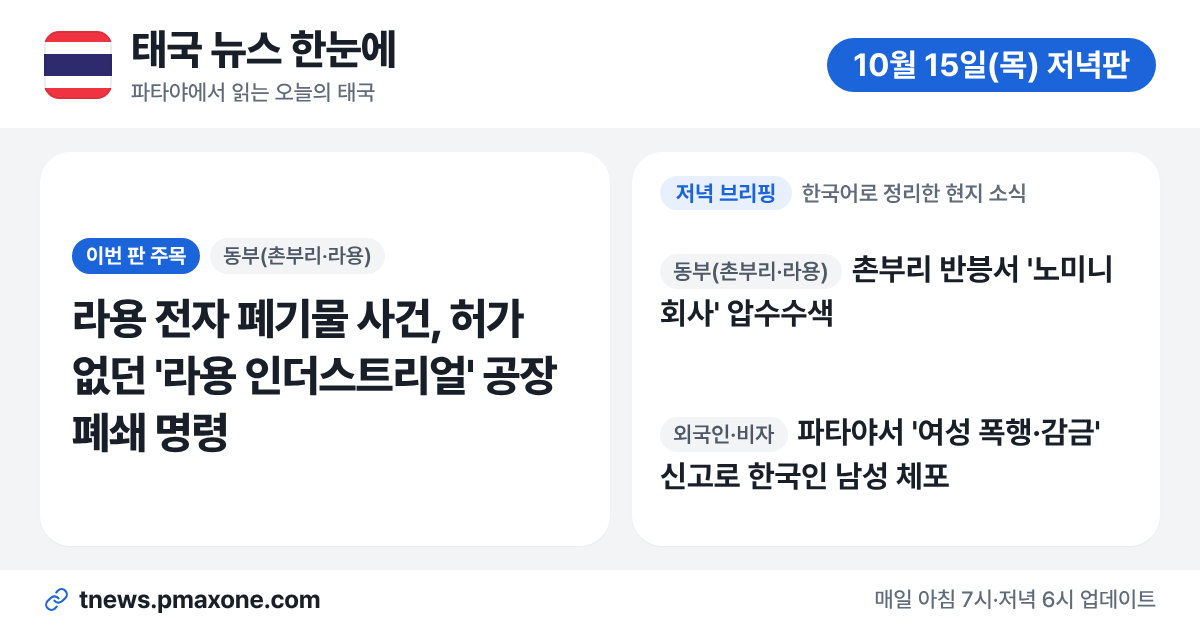
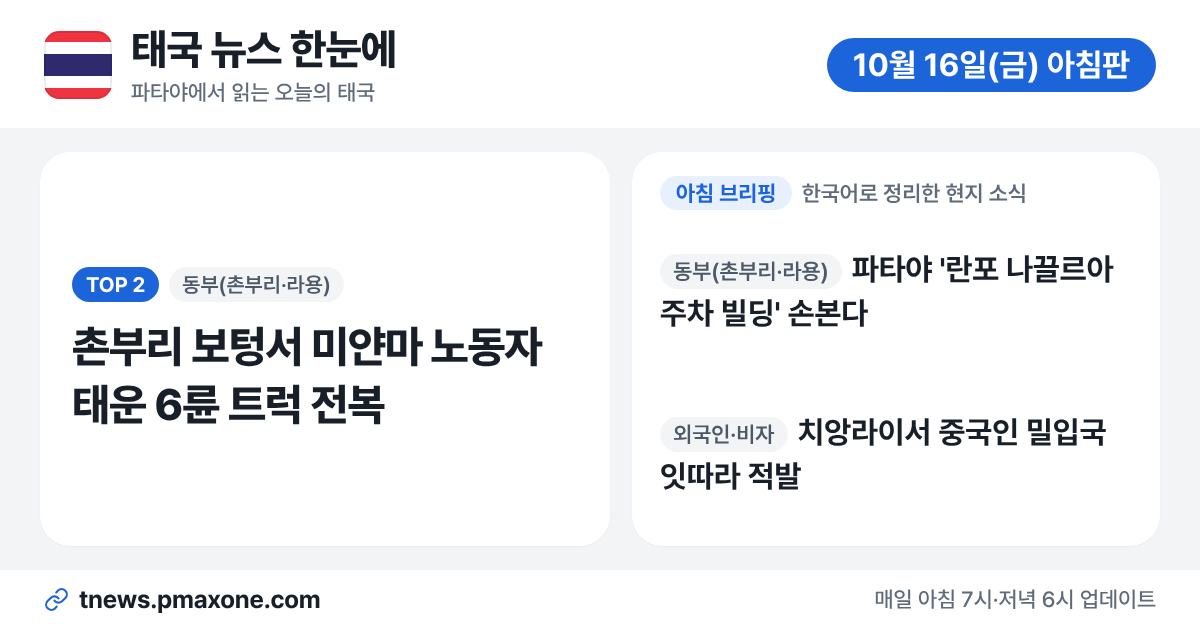
edition 2026-10-16-am

diff --git a/e/2026-10-16-am/index.html b/e/2026-10-16-am/index.html
@@ -1,0 +1,38 @@
+<!doctype html>
+<html lang="ko">
+<head>
+<meta charset="utf-8">
+<meta name="viewport" content="width=device-width, initial-scale=1">
+<meta name="robots" content="noindex, nofollow">
+<title>태국 뉴스 한눈에 — 10월 16일(금) 아침판</title>
+<meta name="description" content="🏖 촌부리 보텅서 미얀마 노동자 태운 6륜 트럭 전복 · 🏖 파타야 &#x27;란포 나끌르아 주차 빌딩&#x27; 손본다 · 🛂 치앙라이서 중국인 밀입국 잇따라 적발">
+<meta property="og:type" content="website">
+<meta property="og:site_name" content="태국 뉴스 한눈에">
+<meta property="og:locale" content="ko_KR">
+<meta property="og:title" content="태국 뉴스 한눈에 — 10월 16일(금) 아침판">
+<meta property="og:description" content="🏖 촌부리 보텅서 미얀마 노동자 태운 6륜 트럭 전복 · 🏖 파타야 &#x27;란포 나끌르아 주차 빌딩&#x27; 손본다 · 🛂 치앙라이서 중국인 밀입국 잇따라 적발">
+<meta property="og:url" content="https://tnews.pmaxone.com/e/2026-10-16-am/">
+<meta property="og:image" content="https://tnews.pmaxone.com/og/2026-10-16-am.png">
+<meta property="og:image:width" content="1200">
+<meta property="og:image:height" content="630">
+<meta property="og:image:alt" content="태국 뉴스 한눈에 — 10월 16일(금) 아침판">
+<meta name="twitter:card" content="summary_large_image">
+<meta name="twitter:title" content="태국 뉴스 한눈에 — 10월 16일(금) 아침판">
+<meta name="twitter:description" content="🏖 촌부리 보텅서 미얀마 노동자 태운 6륜 트럭 전복 · 🏖 파타야 &#x27;란포 나끌르아 주차 빌딩&#x27; 손본다 · 🛂 치앙라이서 중국인 밀입국 잇따라 적발">
+<meta name="twitter:image" content="https://tnews.pmaxone.com/og/2026-10-16-am.png">
+<meta name="theme-color" content="#ffffff">
+<link rel="icon" type="image/png" sizes="32x32" href="../../assets/icons/favicon-32.png">
+<!-- 판별 링크 미리보기용 정적 페이지(tools/share_kit.py 가 생성). 사람은 바로 판 화면으로 이동.
+     meta refresh 는 일부 미리보기 수집기가 따라가 메인 페이지 태그를 읽을 수 있어 쓰지 않음(JS 이동 + 링크). -->
+<script>location.replace("../../?ed=2026-10-16-am" + location.hash);</script>
+<style>body{margin:0;font-family:Pretendard,"Apple SD Gothic Neo","Noto Sans KR",sans-serif;background:#F2F4F6;color:#191F28}
+header{background:#fff;color:#191F28;padding:18px 20px;font-weight:800;font-size:20px;box-shadow:0 1px 0 rgba(0,0,0,.05)}main{padding:20px;max-width:640px;margin:auto}
+a.btn{display:inline-block;margin-top:14px;background:#1B64DA;color:#fff;font-weight:700;padding:12px 18px;border-radius:12px;text-decoration:none}
+li{margin:6px 0;color:#333D4B}</style>
+<link rel="stylesheet" href="/assets/g-pages.css?v=1">
+</head>
+<body>
+<header>태국 뉴스 한눈에</header>
+<main><p><b>10월 16일 아침판</b></p><ul><li>🏖 촌부리 보텅서 미얀마 노동자 태운 6륜 트럭 전복</li><li>🏖 파타야 &#x27;란포 나끌르아 주차 빌딩&#x27; 손본다</li><li>🛂 치앙라이서 중국인 밀입국 잇따라 적발</li><li>🏙 방콕 IMF·세계은행 총회 반대 시위서 몸싸움</li><li>🛂 한국·태국 제2차 전략대화 방콕서 열려</li></ul><a class="btn" href="../../?ed=2026-10-16-am">이번 판 열기 →</a></main>
+</body>
+</html>
